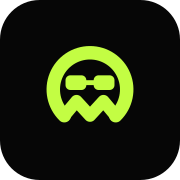
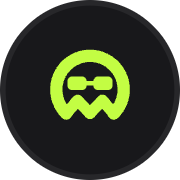
Route signed-in home to Agent Manager and unify CMA identity

diff --git a/web/src/App.sidebar.test.tsx b/web/src/App.sidebar.test.tsx
@@ -40,27 +40,26 @@ afterEach(() => {
 it.each([
   ['Agent Manager', '/agent-manager', 'Welcome to CMA'],
   ['Event Gateway', '/event-gateway', 'Event Gateway'],
-])('expands %s from home and on direct entry', async (service, path, heading) => {
-  const home = show();
-  await screen.findByRole('heading', { name: 'ChronoAI Managed Agent' });
-  expect(screen.queryByRole('button', { name: /(?:Show|Hide) navigation/ })).toBeNull();
-  expect(screen.queryByRole('separator', { name: 'Resize navigation' })).toBeNull();
-  chooseService(service as 'Agent Manager' | 'Event Gateway');
-  await screen.findByRole('heading', { name: heading });
-  expect(window.location.pathname).toBe(path);
-  expect(screen.getByRole('button', { name: 'Hide navigation' })).toBeVisible();
+])(
+  'enters %s with expanded navigation after home redirect and on direct entry',
+  async (service, path, heading) => {
+    const home = show();
+    await screen.findByRole('heading', { name: 'Welcome to CMA' });
+    expect(window.location.pathname).toBe('/agent-manager');
+    chooseService(service as 'Agent Manager' | 'Event Gateway');
+    await screen.findByRole('heading', { name: heading });
+    expect(window.location.pathname).toBe(path);
+    expect(screen.getByRole('button', { name: 'Hide navigation' })).toBeVisible();
 
-  home.unmount();
-  show(path);
-  await screen.findByRole('heading', { name: heading });
-  expect(screen.getByRole('button', { name: 'Hide navigation' })).toBeVisible();
-});
+    home.unmount();
+    show(path);
+    await screen.findByRole('heading', { name: heading });
+    expect(screen.getByRole('button', { name: 'Hide navigation' })).toBeVisible();
+  },
+);
 
-it('retains manual toggles across service navigation and resets on home visits and history', async () => {
+it('retains manual toggles across service navigation and avoids a home history loop', async () => {
   show();
-  await screen.findByRole('heading', { name: 'ChronoAI Managed Agent' });
-  expect(screen.queryByRole('button', { name: /(?:Show|Hide) navigation/ })).toBeNull();
-  chooseService('Agent Manager');
   await screen.findByRole('heading', { name: 'Welcome to CMA' });
   fireEvent.click(screen.getByRole('button', { name: 'Hide navigation' }));
   chooseService('Event Gateway');
@@ -71,16 +70,15 @@ it('retains manual toggles across service navigation and resets on home visits a
   chooseService('Agent Manager');
   expect(screen.getByRole('button', { name: 'Hide navigation' })).toBeVisible();
   fireEvent.click(screen.getByRole('link', { name: 'CMA home' }));
-  expect(screen.queryByRole('button', { name: /(?:Show|Hide) navigation/ })).toBeNull();
-  expect(screen.queryByRole('separator', { name: 'Resize navigation' })).toBeNull();
+  await waitFor(() => expect(window.location.pathname).toBe('/agent-manager'));
+  expect(screen.queryByRole('button', { name: 'Get Started' })).toBeNull();
 
   window.history.back();
   await waitFor(() => expect(window.location.pathname).toBe('/agent-manager'));
   expect(await screen.findByRole('button', { name: 'Hide navigation' })).toBeVisible();
   window.history.forward();
-  await waitFor(() => expect(window.location.pathname).toBe('/'));
-  await screen.findByRole('heading', { name: 'ChronoAI Managed Agent' });
-  expect(screen.queryByRole('button', { name: /(?:Show|Hide) navigation/ })).toBeNull();
+  await waitFor(() => expect(window.location.pathname).toBe('/agent-manager'));
+  expect(screen.queryByRole('button', { name: 'Get Started' })).toBeNull();
 });
 
 it('keeps narrow-screen automatic collapse when entering a service from home', async () => {
@@ -89,8 +87,6 @@ it('keeps narrow-screen automatic collapse when entering a service from home', a
     height: 844,
   } as DOMRect);
   show();
-  await screen.findByRole('heading', { name: 'ChronoAI Managed Agent' });
-  fireEvent.click(screen.getByRole('button', { name: 'Get Started' }));
   await screen.findByRole('heading', { name: 'Welcome to CMA' });
   expect(await screen.findByRole('button', { name: 'Show navigation' })).toBeVisible();
   fireEvent.click(screen.getByRole('button', { name: 'Show navigation' }));

diff --git a/web/src/ui/useDocumentTitle.test.tsx b/web/src/ui/useDocumentTitle.test.tsx
@@ -11,23 +11,23 @@ afterEach(() => {
   document.title = '';
 });
 
-it('names the tab after the view and restores the product name when it leaves', () => {
+it('keeps the full product title across view changes and unmount', () => {
   const { rerender, unmount } = render(<Title value="Atlas" />);
-  expect(document.title).toBe('Atlas · CMA');
+  expect(document.title).toBe('ChronoAI Managed Agent (CMA)');
   rerender(<Title value="Prove lemma" />);
-  expect(document.title).toBe('Prove lemma · CMA');
+  expect(document.title).toBe('ChronoAI Managed Agent (CMA)');
   unmount();
-  expect(document.title).toBe('CMA');
+  expect(document.title).toBe('ChronoAI Managed Agent (CMA)');
 });
 
-it('registers nothing for a name that is not known yet', () => {
+it('uses the product title even before a view name is known', () => {
   document.title = 'Before';
   render(<Title value={undefined} />);
   render(<Title value="   " />);
-  expect(document.title).toBe('Before');
+  expect(document.title).toBe('ChronoAI Managed Agent (CMA)');
 });
 
-it('gives the title to the visible service and hands it back when that service hides', () => {
+it('keeps the product title when retained services switch visibility', () => {
   const draw = (gateway: boolean) => (
     <>
       <DocumentTitleScope visible={!gateway}>
@@ -39,11 +39,11 @@ it('gives the title to the visible service and hands it back when that service h
     </>
   );
   const { rerender } = render(draw(false));
-  expect(document.title).toBe('Prove lemma · CMA');
+  expect(document.title).toBe('ChronoAI Managed Agent (CMA)');
   rerender(draw(true));
-  expect(document.title).toBe('Event Gateway · CMA');
+  expect(document.title).toBe('ChronoAI Managed Agent (CMA)');
   rerender(draw(false));
-  expect(document.title).toBe('Prove lemma · CMA');
+  expect(document.title).toBe('ChronoAI Managed Agent (CMA)');
 });
 
 it('keeps a nested scope hidden while its parent is hidden', () => {
@@ -57,5 +57,5 @@ it('keeps a nested scope hidden while its parent is hidden', () => {
       </DocumentTitleScope>
     </>,
   );
-  expect(document.title).toBe('Agent Manager · CMA');
+  expect(document.title).toBe('ChronoAI Managed Agent (CMA)');
 });

diff --git a/web/src/ui/useDocumentTitle.tsx b/web/src/ui/useDocumentTitle.tsx
@@ -1,17 +1,7 @@
 import { createContext, useContext, useEffect, type ReactNode } from 'react';
 
-/**
- * Name the browser tab after the view — `docs/Web_Style.md` §11.
- *
- * Tabs, history and screen-reader page announcements all read the document
- * title, so "CMA" on every route left somebody with five tabs unable to tell
- * them apart.
- *
- * Services stay mounted while hidden so their drafts survive a switch, which
- * means more than one view can want the title at once. Each view registers
- * its title instead of writing it; the most recently registered view that is
- * on screen wins, and a hidden service's scope marks its views inactive. When
- * a view leaves, the one behind it gets the title back.
+/** The browser tab keeps the product's full name; view names belong in page headings.
+ * Retained service scopes still gate title effects while their content is hidden.
  */
 
 const VisibleScope = createContext(true);
@@ -28,30 +18,12 @@ export function DocumentTitleScope({
   return <VisibleScope value={parent && visible}>{children}</VisibleScope>;
 }
 
-interface Entry {
-  readonly title: string;
-  readonly active: boolean;
-}
+export const CMA_DOCUMENT_TITLE = 'ChronoAI Managed Agent (CMA)';
 
-const entries: Entry[] = [];
-
-function apply() {
-  const current = [...entries].reverse().find((entry) => entry.active);
-  document.title = current === undefined ? 'CMA' : `${current.title} · CMA`;
-}
-
-/** Pass undefined while the name is not known yet; nothing is registered for it. */
+/** Existing callers may retain their view labels; they no longer rename browser tabs. */
 export function useDocumentTitle(title: string | undefined) {
   const active = useContext(VisibleScope);
   useEffect(() => {
-    if (title === undefined || title.trim() === '') return;
-    const entry: Entry = { title, active };
-    entries.push(entry);
-    apply();
-    return () => {
-      const at = entries.indexOf(entry);
-      if (at !== -1) entries.splice(at, 1);
-      apply();
-    };
+    if (active) document.title = CMA_DOCUMENT_TITLE;
   }, [title, active]);
 }

diff --git a/web/src/App.test.tsx b/web/src/App.test.tsx
@@ -41,27 +41,33 @@ describe('the retained application shell', () => {
     expect(screen.getByRole('button', { name: /account menu/i })).toBeInTheDocument();
   });
 
-  it('keeps the home landing available after sign-in and enters Agent Manager without another login', async () => {
+  it('replaces authenticated home with Agent Manager without painting the landing', async () => {
     const provider = createMockAuthProvider({ initiallyAuthenticated: true });
     const signIn = vi.spyOn(provider, 'signIn');
+    const replace = vi.spyOn(window.history, 'replaceState');
+    const push = vi.spyOn(window.history, 'pushState');
+    const paintedLanding: boolean[] = [];
+    const observer = new MutationObserver(() => {
+      paintedLanding.push(document.querySelector('.sign-in-landing') !== null);
+    });
+    observer.observe(document.body, { childList: true, subtree: true });
     render(
       <AuthContextProvider provider={provider}>
         <App />
       </AuthContextProvider>,
     );
-    expect(
-      await screen.findByRole('heading', { name: 'ChronoAI Managed Agent' }),
-    ).toBeInTheDocument();
-    expect(screen.queryByRole('button', { name: 'Show navigation' })).not.toBeInTheDocument();
-    expect(screen.queryByRole('separator', { name: 'Resize navigation' })).not.toBeInTheDocument();
-    fireEvent.click(screen.getByRole('button', { name: 'Get Started' }));
     expect(await screen.findByRole('heading', { name: 'Welcome to CMA' })).toBeInTheDocument();
+    expect(screen.queryByRole('button', { name: 'Get Started' })).not.toBeInTheDocument();
     expect(screen.getByRole('button', { name: 'Hide navigation' })).toHaveAttribute(
       'aria-expanded',
       'true',
     );
     expect(window.location.pathname).toBe('/agent-manager');
+    expect(replace).toHaveBeenCalledWith(null, '', '/agent-manager');
+    expect(push).not.toHaveBeenCalled();
     expect(signIn).not.toHaveBeenCalled();
+    observer.disconnect();
+    expect(paintedLanding).not.toContain(true);
   });
 
   it('offers sign in to an anonymous visitor', async () => {

diff --git a/web/src/App.tsx b/web/src/App.tsx
@@ -12,7 +12,7 @@ import './styles/shiki.css';
 import './styles/base.css';
 import './styles/components.css';
 import './AppError.css';
-import { lazy, Suspense, useState } from 'react';
+import { lazy, Suspense, useLayoutEffect, useState } from 'react';
 import { Presence } from './ui/Presence';
 import { Button } from './ui/Button';
 import { useCmaClient, useCreationClient, usePublicClient } from './api/context';
@@ -33,9 +33,21 @@ import { isBotRoute } from './BotManagement';
 import { ServiceBody } from './services/ServiceBody';
 import { PortalFrame } from './shell/PortalFrame';
 
+const AUTHENTICATED_HOME_ROUTE: AppRoute = { kind: 'agent_manager' };
+
 export function App() {
-  const router = useAppRouter();
+  const browserRouter = useAppRouter();
   const { state: identity } = useAuth();
+  const { navigate } = browserRouter;
+  const redirectHome = identity.status === 'authenticated' && browserRouter.route.kind === 'home';
+  useLayoutEffect(() => {
+    if (redirectHome) navigate(AUTHENTICATED_HOME_ROUTE, { replace: true });
+  }, [redirectHome, navigate]);
+  // Render the destination immediately, before the home URL is replaced, so
+  // resolving identity never paints the anonymous landing for a signed-in owner.
+  const router: AppRouter = redirectHome
+    ? { ...browserRouter, route: AUTHENTICATED_HOME_ROUTE }
+    : browserRouter;
   const identityKey = identity.status === 'authenticated' ? identity.user.id : identity.status;
   const service =
     router.route.kind === 'event_gateway' || isBotRoute(router.route) ? 'event-gateway' : undefined;

diff --git a/web/src/ConsoleTitle.test.tsx b/web/src/ConsoleTitle.test.tsx
@@ -52,7 +52,7 @@ it('adopts a title generated after the completed first turn without reloading or
   generated = true;
   await act(() => vi.advanceTimersByTimeAsync(15000));
   expect(screen.getByRole('heading', { name: 'Repository introduction' })).toBeInTheDocument();
-  expect(document.title).toBe('Repository introduction \u00b7 CMA');
+  expect(document.title).toBe('ChronoAI Managed Agent (CMA)');
   expect(screen.getByRole('link', { name: /Repository introduction/ })).toBeInTheDocument();
   expect(screen.getByRole('textbox', { name: 'Message' })).toBe(composer);
   expect(composer).toHaveValue('Keep this unsent draft');
@@ -116,7 +116,7 @@ it('shares setup filtering and live native titles across header, document and si
   await act(() => vi.advanceTimersByTimeAsync(0));
   const expectTitle = (title: string) => {
     expect(screen.getByRole('heading', { name: title })).toBeInTheDocument();
-    expect(document.title).toBe(`${title} · CMA`);
+    expect(document.title).toBe('ChronoAI Managed Agent (CMA)');
     expect(document.querySelector('.tree-row[data-node-id="agent:agt_1"]')).toHaveTextContent(
       title,
     );

diff --git a/web/src/AppPublic.test.tsx b/web/src/AppPublic.test.tsx
@@ -154,7 +154,7 @@ it.each(
         </StrictMode>,
       );
       await screen.findByRole('heading', {
-        name: path === '/' ? 'ChronoAI Managed Agent' : PUBLIC_PREVIEW.title,
+        name: path === '/' ? 'Welcome to CMA' : PUBLIC_PREVIEW.title,
       });
       await waitFor(() =>
         expect(requests.slice(before)).toContainEqual(
@@ -165,7 +165,7 @@ it.each(
       );
       await act(async () => undefined);
       expect(requests.slice(before)).toContainEqual({ method: 'GET', path: '/auth/session' });
-      expect(window.location.pathname).toBe(path);
+      expect(window.location.pathname).toBe(path === '/' ? '/agent-manager' : path);
       expect(sessionStorage.length).toBe(0);
       expect(rejectedRequests).toEqual([]);
       expect(resourceWrites).toEqual({

diff --git a/web/src/shell/Sidebar.css b/web/src/shell/Sidebar.css
@@ -10,7 +10,7 @@
   --cma-scrollbar-thumb-hover: var(--dsw-alias-scrollbar-hover-l2);
 }
 .sidebar--collapsed {
-  padding-inline: 10px;
+  padding-inline: 6px;
 }
 .sidebar__head {
   display: flex;
@@ -24,8 +24,8 @@
   flex: none;
   align-items: center;
   justify-content: center;
-  width: 32px;
-  height: 32px;
+  width: 44px;
+  height: 44px;
   border-radius: 8px;
   color: inherit;
   text-decoration: none;
@@ -35,8 +35,8 @@
 }
 .sidebar__mark {
   flex: none;
-  width: 20px;
-  height: 20px;
+  width: 40px;
+  height: 40px;
   color: var(--dsw-alias-brand-primary);
 }
 .sidebar__mark svg {

diff --git a/web/src/resources/OwnerWorkspacePage.test.tsx b/web/src/resources/OwnerWorkspacePage.test.tsx
@@ -60,7 +60,7 @@ it('places the Workspace in its Sandbox and states its facts', async () => {
   expect(fact('Branch or ref')).toHaveTextContent('Default branch');
   expect(fact('Resolved commit')).toHaveTextContent('abc123');
   // The tab is named in an effect after the heading paints.
-  await waitFor(() => expect(document.title).toBe('chrono-bot · CMA'));
+  await waitFor(() => expect(document.title).toBe('ChronoAI Managed Agent (CMA)'));
 });
 
 it('pairs each Agent with its Worktree', async () => {

diff --git a/web/index.html b/web/index.html
@@ -13,7 +13,7 @@
       icon for exactly this and nothing was pointing at it.
     -->
     <link rel="apple-touch-icon" href="./src/assets/brand/png/appicon-180.png" />
-    <title>CMA</title>
+    <title>ChronoAI Managed Agent (CMA)</title>
   </head>
   <body>
     <!--
